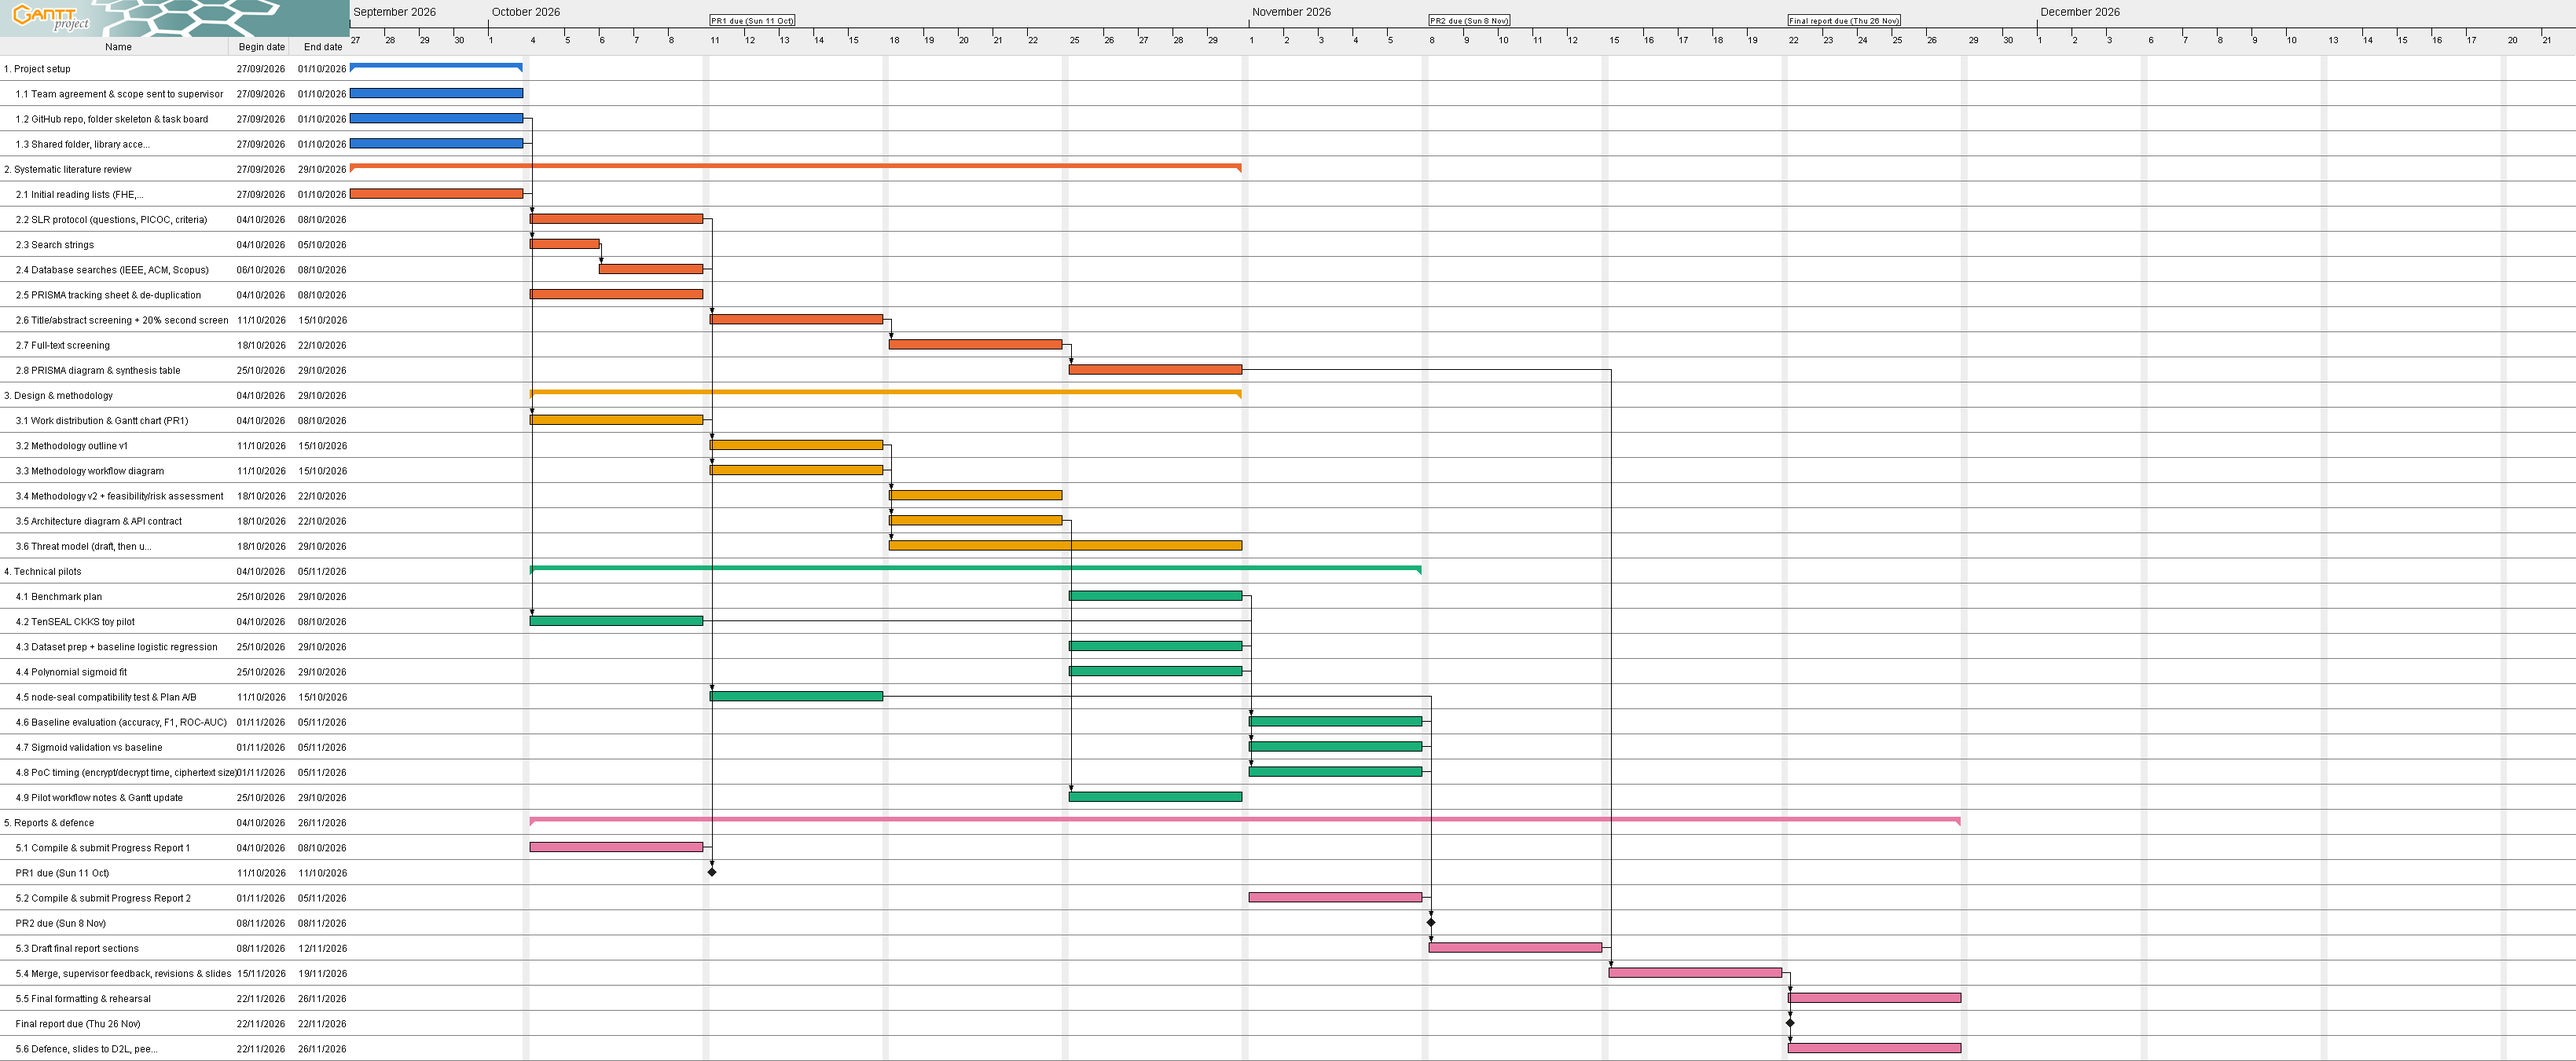
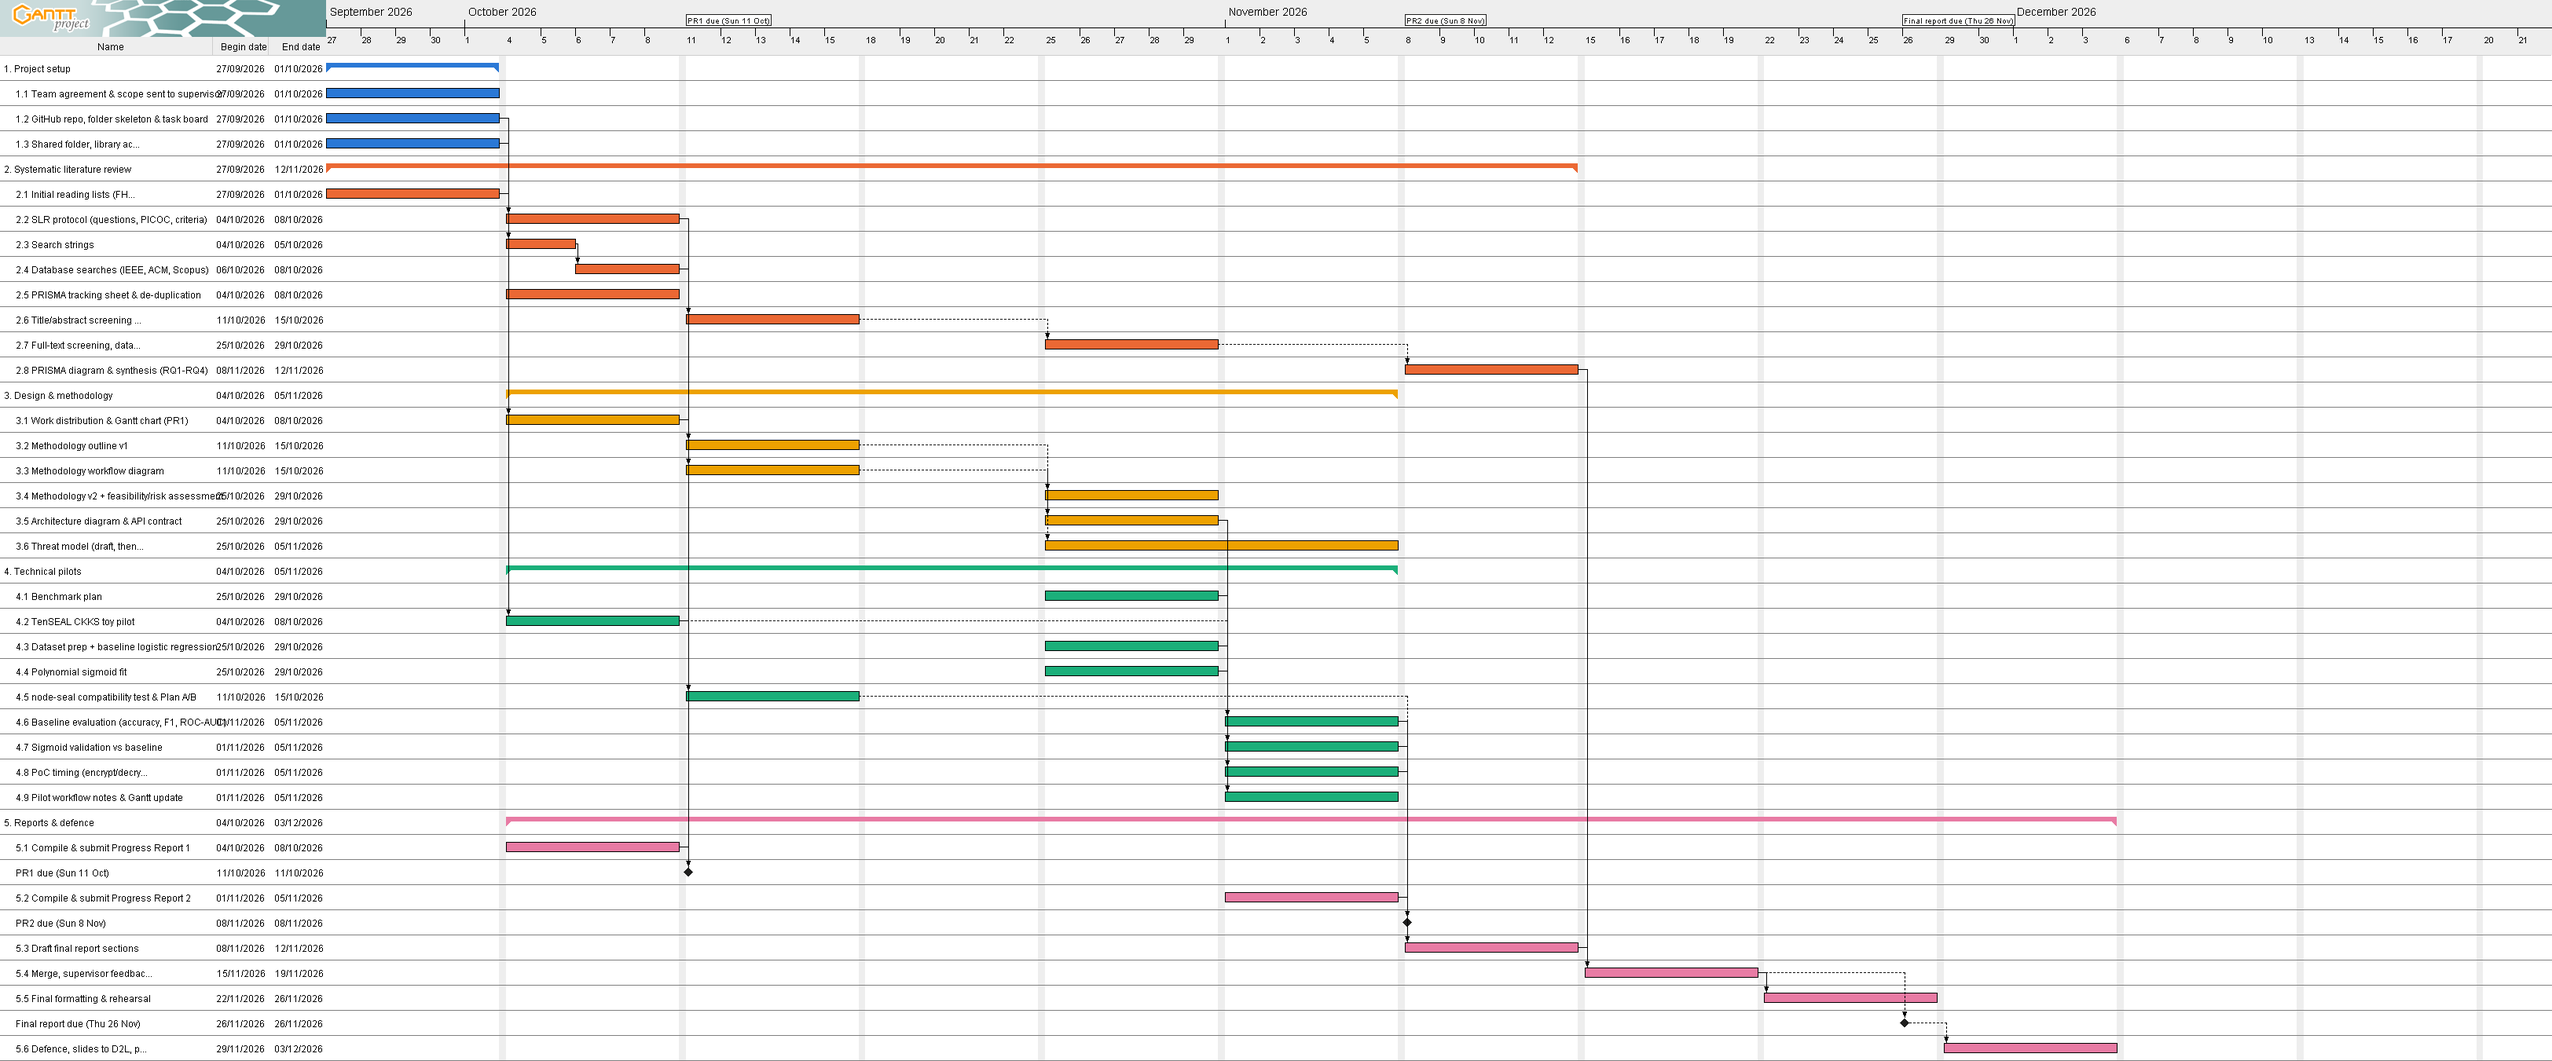
planning: re-export Gantt chart PNG with the fixed schedule

diff --git a/planning/gantt.md b/planning/gantt.md
@@ -2,9 +2,7 @@
 Owner: Abdullah Dar (Wk 7)
 
 ![COMP4101 Practicum Gantt chart](gantt/COMP4101_Practicum_Gantt.png)
-*Gantt chart, Weeks 6–15 (PR1 version). Working week is Sunday–Thursday. Source file: [gantt/COMP4101_Practicum_Gantt.gan](gantt/COMP4101_Practicum_Gantt.gan) – open it in [GanttProject](https://www.ganttproject.biz/), edit, then re-export the PNG over the old one.*
-
-> **The image above is out of date (PR1 version, 7 Oct).** The `.gan` file and the task table below have the 9 Oct fixes: no work in the Week 9 break, SLR stages moved to match Protocol v3 (full text + extraction Week 10, synthesis + PRISMA Week 12), final-report milestone on Thu 26 Nov, defence in Week 15. Re-export the PNG from the `.gan` file to update it.
+*Gantt chart, Weeks 6–15 (updated 9 Oct: Week 9 break kept free, SLR stages per Protocol v3). Dotted arrows are flexible (Rubber) dependencies. Working week is Sunday–Thursday. Source file: [gantt/COMP4101_Practicum_Gantt.gan](gantt/COMP4101_Practicum_Gantt.gan) – open it in [GanttProject](https://www.ganttproject.biz/), edit, then re-export the PNG over the old one.*
 
 ## Milestones by week
 
